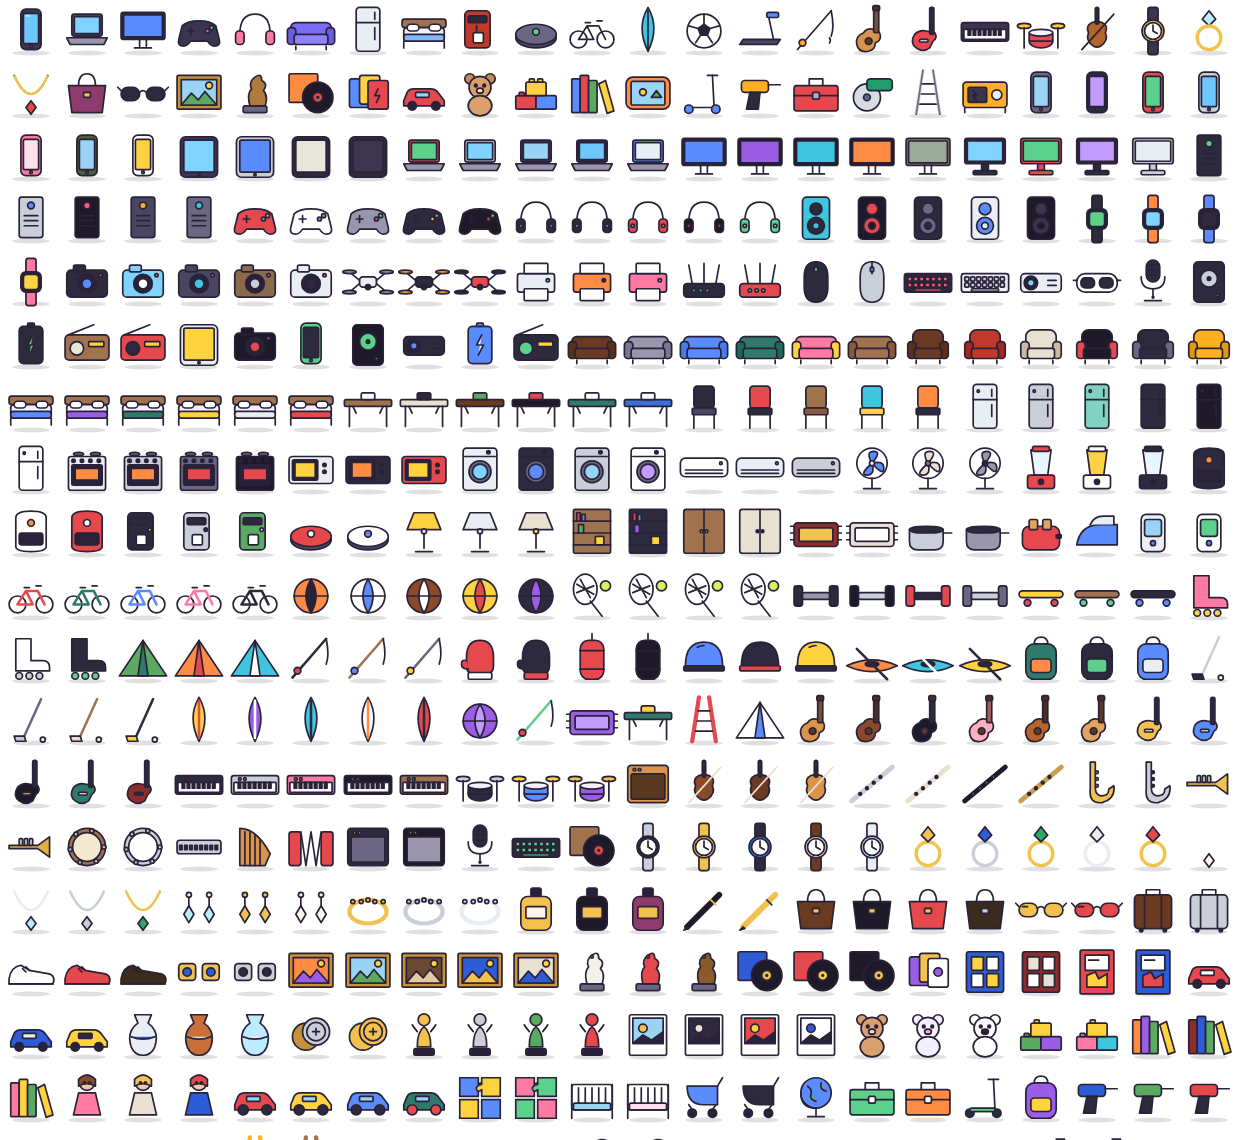
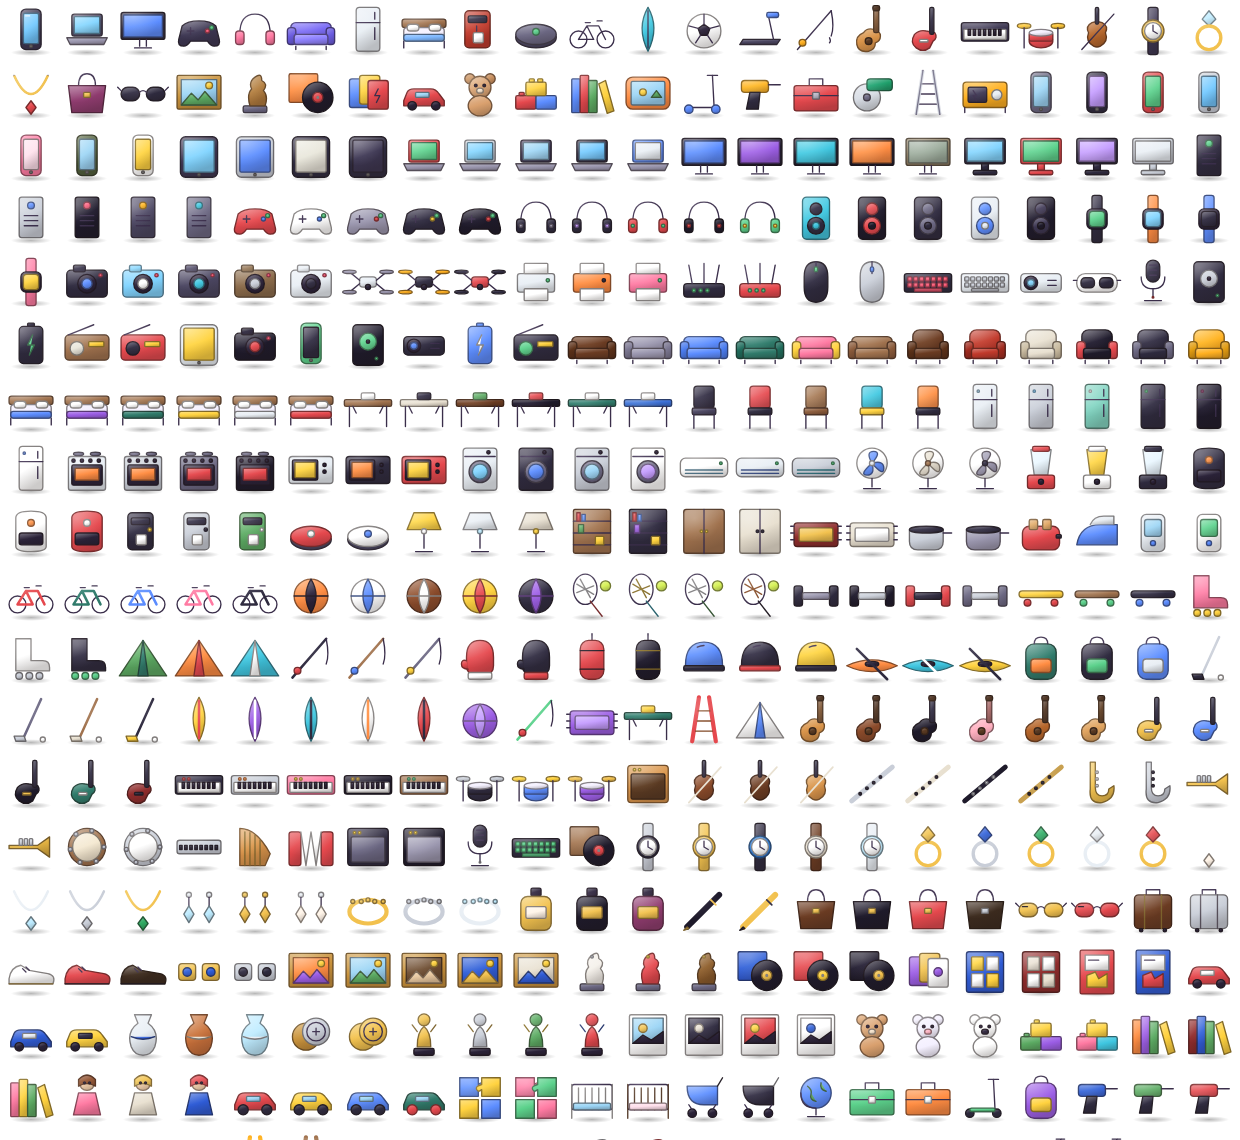
3.5: itens com sombreamento e contorno no estilo dos bichos e personagens

diff --git a/src/itens4.js b/src/itens4.js
@@ -1,7 +1,15 @@
 // ===== 3.5: catálogo de itens desenhados (primeiros 40) =====
 // IDs permanentes (não mudar): o save guarda o id e o desenho sai daqui.
 const I4L='#2A2238';
-const i4=(b,s='')=>`<svg viewBox="0 0 64 64" width="44" height="44" aria-hidden="true" class="item4"><ellipse cx="32" cy="58" rx="22" ry="3" fill="#000" opacity=".12"/><g stroke="${I4L}" stroke-width="2" stroke-linejoin="round" stroke-linecap="round">${b}</g>${s}</svg>`;
+// acabamento igual ao dos bichos e personagens: cada cor ganha degradê de luz, contorno escuro da própria cor e brilho
+let I4_UID=0;
+const i4Hex=c=>{ c=String(c); return /^#[0-9a-f]{3}$/i.test(c)?'#'+c.slice(1).split('').map(x=>x+x).join(''):c; };
+function i4(b,s=''){ const id='i4g'+(++I4_UID), gs={}; let n=0;
+  const corpo=b.replace(/fill="(#[0-9A-Fa-f]{3,6})"/g,(m0,c)=>{ c=i4Hex(c); if(!gs[c]) gs[c]=id+'_'+(n++); return `fill="url(#${gs[c]})" stroke="${bxD(c,.55)}"`; })
+    .replace(/stroke="(#[0-9A-Fa-f]{3,6})" stroke-width="(\d+)"/g,(m0,c,w)=>`stroke="${i4Hex(c)}" stroke-width="${w}"`);
+  const defs=Object.entries(gs).map(([c,g])=>`<linearGradient id="${g}" x1="0" y1="0" x2=".35" y2="1"><stop offset="0" stop-color="${bxL(c,.32)}"/><stop offset=".55" stop-color="${c}"/><stop offset="1" stop-color="${bxD(c,.22)}"/></linearGradient>`).join('');
+  return `<svg viewBox="0 0 64 64" width="44" height="44" aria-hidden="true" class="item4"><defs>${defs}<radialGradient id="${id}_sh" cx=".5" cy=".5" r=".5"><stop offset="0" stop-color="#000" stop-opacity=".28"/><stop offset="1" stop-color="#000" stop-opacity="0"/></radialGradient><radialGradient id="${id}_gl" cx=".3" cy=".22" r=".55"><stop offset="0" stop-color="#fff" stop-opacity=".55"/><stop offset="1" stop-color="#fff" stop-opacity="0"/></radialGradient></defs>`+
+    `<ellipse cx="32" cy="57.5" rx="24" ry="4" fill="url(#${id}_sh)"/><g stroke="#3A2E4A" stroke-width="1.6" stroke-linejoin="round" stroke-linecap="round">${corpo}</g>${s}<rect x="4" y="4" width="56" height="50" rx="14" fill="url(#${id}_gl)" pointer-events="none" style="mix-blend-mode:soft-light"/></svg>`; }
 const I4R=(x,y,w,h,c,r=3)=>`<rect x="${x}" y="${y}" width="${w}" height="${h}" rx="${r}" fill="${c}"/>`;
 const I4C=(x,y,r,c)=>`<circle cx="${x}" cy="${y}" r="${r}" fill="${c}"/>`;
 const I4P=(d,c='none')=>`<path d="${d}" fill="${c}"/>`;
